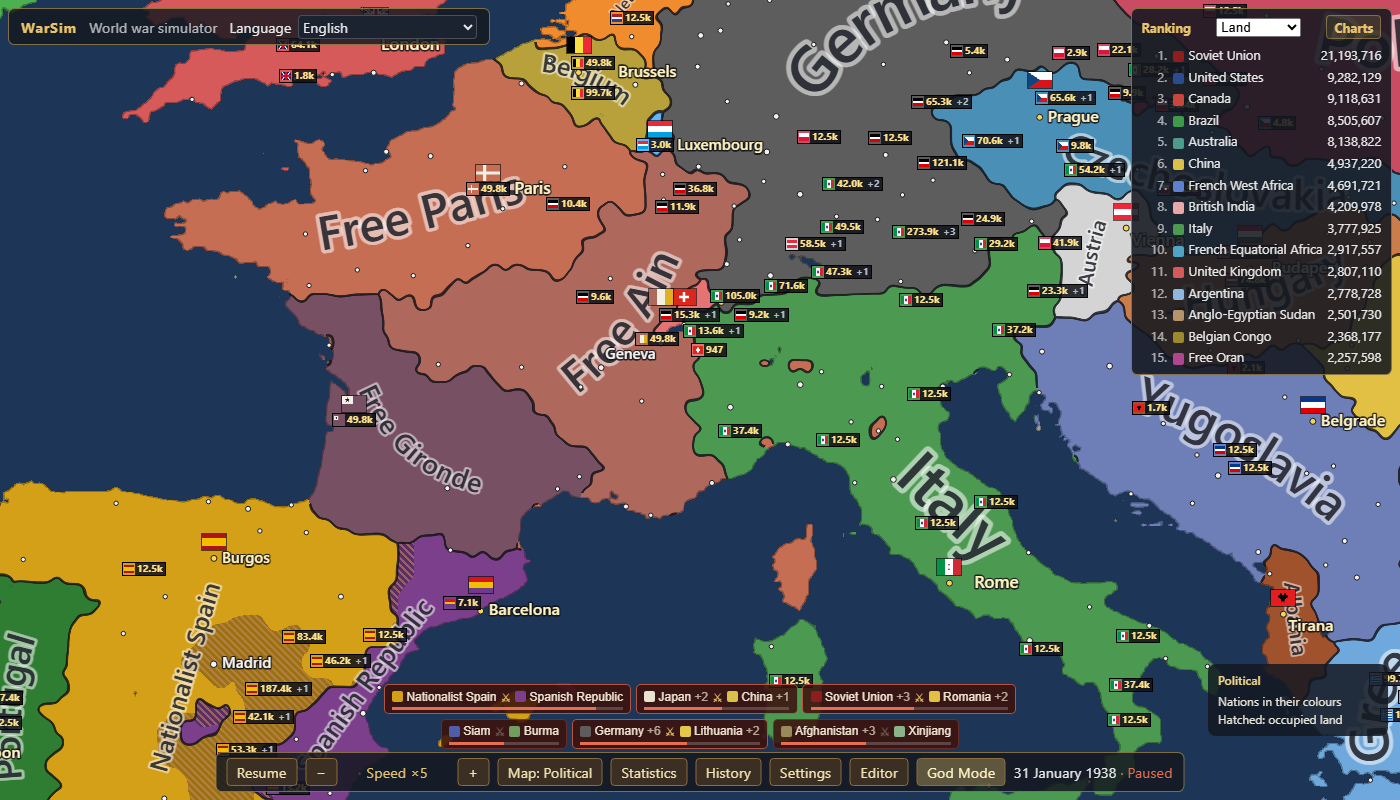
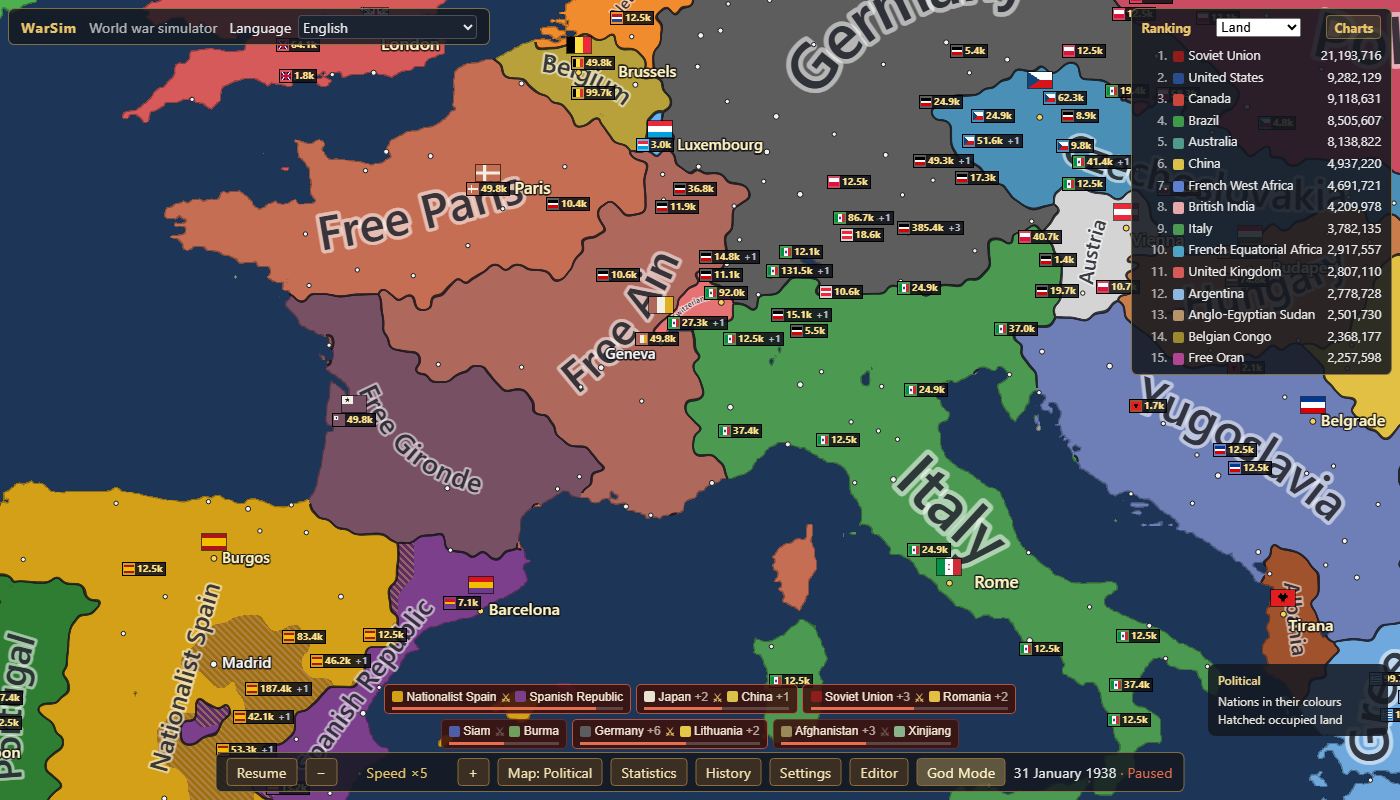
PLAN 2.17c2: a Kill gives a neighbour's province back to the neighbour (ADR-120)
A cell the dead nation owns in a province whose centre is another's went
to the heir in the last sweep of killNation: spots of "Free Ain" inside
Italy after a God brush stroke and a Kill. It now goes to the living
owner of the province's centre, with one LandCeded for each receiver.
The heir keeps the cells outside any province. A Kill with no heir is
not changed (ADR-113).

Tests, seen to fail first: killLand.test.ts (153 cells with a founded
nation); godUi1938.spec.ts, the fifth test, which now reads every 10 px
of the view (9 points).

Gate: green (typecheck, lint, unit 743, the ten-year tests, build, the
changed spec, parity). The pin did not move.

Claude-Session: https://claude.ai/code/session_01Rceg5hD1X4zLUbeCpn3Pjq

diff --git a/tests/unit/killLand.test.ts b/tests/unit/killLand.test.ts
@@ -3,7 +3,7 @@ import { EventKind } from '../../src/shared/events';
 import { NATIONS_1938, SIZE_1938 } from '../../src/sim/scenario1938';
 import { Sim } from '../../src/sim/sim';
 import type { SimInit } from '../../src/shared/protocol';
-import type { World } from '../../src/sim/world';
+import { navOf, type World } from '../../src/sim/world';
 import { deadLand } from '../helpers/deadLand';
 import { assets1938 } from '../helpers/earth';
 import { eventKinds, nationId, runEvents } from '../helpers/sim1938';
@@ -119,6 +119,58 @@ describe('a God Mode Kill leaves no land with the dead (PLAN 2.16Rg)', () => {
     expect(w.nations.cols.origin[heir], 'its origin').toBe(province[cell]);
     expect(w.nations.highWater - born, 'nations founded').toBeGreaterThan(1);
     expect([...new Set(slivers.map((i) => owner[i]!))], 'who took the cells outside any province').toEqual([heir]);
+  });
+
+  // PLAN 2.17c2 (ADR-120): the God brush gives a nation cells of a province whose centre stays
+  // its neighbour's. A Kill gave them to the heir: spots of "Free Ain" inside Italy's north.
+  it('part of a neighbour’s province: it goes back to the neighbour, not to a nation founded', () => {
+    const s = new Sim({ scenario: '1938', seed: 99, assets });
+    const w = s.world;
+    const [FRA, ITA] = [nationId('FRA'), nationId('ITA')];
+    const { owner, controller, province, w: width } = w.cells;
+    const centre = navOf(w).graph.centre;
+    const centreOf = (p: number): number => centre[p] ?? -1;
+    // The Italian province with the most cells beside France.
+    const beside = new Map<number, number>();
+    for (let c = 0; c < owner.length; c++) {
+      const p = province[c]!;
+      if (owner[c] !== ITA || p === 0 || owner[centreOf(p)] !== ITA) continue;
+      if ([c - width, c - 1, c + 1, c + width].some((q) => owner[q] === FRA)) beside.set(p, (beside.get(p) ?? 0) + 1);
+    }
+    const p = [...beside].sort((a, b) => b[1] - a[1] || a[0] - b[0])[0]?.[0] ?? 0;
+    expect(p, 'an Italian province beside France').toBeGreaterThan(0);
+    // France gets all of it but the centre and the cells round the centre.
+    const [mx, my] = [centreOf(p) % width, Math.floor(centreOf(p) / width)];
+    const painted: number[] = [];
+    for (let c = 0; c < owner.length; c++) {
+      if (province[c] !== p || owner[c] !== ITA) continue;
+      if (Math.abs((c % width) - mx) <= 1 && Math.abs(Math.floor(c / width) - my) <= 1) continue;
+      w.setOwner(c, FRA);
+      w.setController(c, FRA);
+      painted.push(c);
+    }
+    expect(painted.length, 'cells painted').toBeGreaterThan(0);
+    expect(owner[centreOf(p)], 'the centre').toBe(ITA);
+    const total = owner.reduce((a, o) => a + (o !== 0 ? 1 : 0), 0);
+    const old = new Set<number>();
+    w.nations.forEach((n) => {
+      if (w.nations.cols.living[n] === 1) old.add(n);
+    });
+    s.command({ kind: 'collapseNation', nation: FRA });
+    const ev = runEvents(s, 1);
+    expect(w.nations.cols.living[FRA], 'France lives').toBe(0);
+    const strays = new Map<number, number>();
+    for (let c = 0; c < owner.length; c++) {
+      const q = province[c]!;
+      if (q === 0 || owner[c] === 0 || old.has(owner[c]!) || owner[centreOf(q)] !== ITA) continue;
+      strays.set(owner[c]!, (strays.get(owner[c]!) ?? 0) + 1);
+    }
+    expect([...strays], 'founded nations with cells of a province whose centre is Italy’s').toEqual([]);
+    expect(painted.filter((c) => owner[c] !== ITA || controller[c] !== ITA).length, 'painted cells not Italy’s').toBe(0);
+    expect(eventKinds(ev, EventKind.LandCeded).filter(([to]) => to === ITA).length, 'LandCeded to Italy').toBeGreaterThanOrEqual(1);
+    expect(deadLand(w)).toEqual([]);
+    expect(owner.reduce((a, o) => a + (o !== 0 ? 1 : 0), 0), 'cells with an owner').toBe(total);
+    w.nations.forEach((n) => expect(w.nations.cols.cells[n], `count of nation ${n}`).toBe(owner.reduce((a, o) => a + (o === n ? 1 : 0), 0)));
   });
 
   it('1938 at tick 2000, with wars and occupations: every nation', () => {

diff --git a/tests/e2e/godUi1938.spec.ts b/tests/e2e/godUi1938.spec.ts
@@ -349,11 +349,18 @@ test('a nation painted over a neighbour, renamed and killed holds nothing and ha
   await page.getByTestId('god-tool-brush').click();
   await lookAt(page, 7, 45.2, SCALE);
   const way = Array.from({ length: 32 }, (_, i): [number, number] => [600 + (250 * i) / 31, 400]);
+  // Every 10 px of the view (the band and France west of it): the controller the map draws.
+  const grid: [number, number][] = [];
+  for (let y = 5; y < 800; y += 10) for (let x = 5; x < 1400; x += 10) grid.push([x, y]);
+  const held = await holders(grid);
+  const old = new Set((await inspect(page)).nations.filter((n) => n.living).map((n) => n.id));
   await page.mouse.move(600, 400);
   await page.mouse.down();
   await page.mouse.move(850, 400, { steps: 12 });
   await page.mouse.up();
   await expect.poll(async () => (await holders(way)).filter((n) => n !== FRA).length).toBe(0);
+  const painted = (await holders(grid)).filter((n, i) => n === FRA && held[i] !== FRA).length;
+  expect(painted, 'points of the view the stroke took from a neighbour').toBeGreaterThanOrEqual(10);
   await page.getByTestId('god-tool-brush').click();
 
   await page.getByTestId('god-rename-input').fill('Gaul');
@@ -365,9 +372,6 @@ test('a nation painted over a neighbour, renamed and killed holds nothing and ha
   await expect.poll(async () => nation(await inspect(page), FRA).living).toBe(false);
 
   // At once, and 30 days later: no cell, no name, no formation.
-  // Every 10 px of the view (the band and France west of it): the controller the map draws.
-  const grid: [number, number][] = [];
-  for (let y = 5; y < 800; y += 10) for (let x = 5; x < 1400; x += 10) grid.push([x, y]);
   const out = process.env['EVIDENCE'] ? path.resolve(import.meta.dirname, '../../docs/evidence/2.17') : info.outputPath();
   mkdirSync(out, { recursive: true });
   for (const days of [0, 30]) {
@@ -378,6 +382,11 @@ test('a nation painted over a neighbour, renamed and killed holds nothing and ha
     expect(s.formations.filter((f) => f.nation === FRA), `after ${days} days: formations`).toEqual([]);
     await expect.poll(async () => (await holders(grid)).filter((n) => n === FRA).length, `after ${days} days: cells controlled in the view`).toBe(0);
     await expect.poll(async () => (await names()).filter((l) => l.id === FRA || l.text === 'Gaul'), `after ${days} days: the name on the map`).toEqual([]);
+    // The neighbour's land under the stroke is the neighbour's again, and no piece of a nation the
+    // Kill founded is left in it (PLAN 2.17c2, ADR-120: four spots of "Free Ain" in Italy's north).
+    const now = await holders(grid);
+    if (days === 0) expect(now.filter((n, i) => held[i] !== FRA && n !== held[i]), 'at once: points of the view not their first holder’s').toEqual([]);
+    expect(now.filter((n, i) => held[i] !== FRA && n !== 0 && !old.has(n)), `after ${days} days: points outside France of a nation founded`).toEqual([]);
     await page.evaluate(() => window.__warsim!.view!.select(0));
     await page.waitForTimeout(800);
     await page.screenshot({ path: path.join(out, `killed-painted-${days}d.png`) });

diff --git a/src/sim/systems/revival.ts b/src/sim/systems/revival.ts
@@ -28,6 +28,7 @@
  *      province go to the heir: the nation founded on the old capital, else the largest
  *      founded, else whoever received the most land. A cell outside those provinces that a
  *      living nation occupies is that nation's (ADR-112's rule for every death, ADR-119).
+ *      A cell of a province whose centre a living nation owns goes to that nation (ADR-120).
  *   4. With no heir (the nation owns the centre of no province) its land goes to the living
  *      nation with the most cells beside it (`leaveToNeighbour`, ADR-113).
  * The Kill of the only living nation is refused if it has no province to found a nation in
@@ -315,14 +316,28 @@ function killNation(world: World, c: number, rest: number[], capitalProvince: nu
   }
   if (heir === 0) for (const [n, cells] of [...received].sort((a, b) => a[0] - b[0])) if (heir === 0 || cells > received.get(heir)!) heir = n;
   if (heir !== 0 && islands.length > 0) give(islands, heir);
-  // Cells outside any province (slivers) that c still holds go to the heir; then c is gone. One
-  // that another nation occupies is left for `eliminateNation`, which gives it to the occupier
-  // (ADR-112): given to the heir, it stayed occupied with no war behind it (ADR-119).
+  // What c still holds is outside the provinces shared out; then c is gone. A cell of a province
+  // whose centre a living nation owns goes to that nation (ADR-120): given to the heir, the cells
+  // a God brush had painted stood as spots of the heir inside the neighbour. The others (outside
+  // any province, or a province nobody living holds) go to the heir. One that another nation
+  // occupies is left for `eliminateNation`, which gives it to the occupier (ADR-112): given to
+  // the heir, it stayed occupied with no war behind it (ADR-119).
+  const returned = new Map<number, { cells: number; sx: number; sy: number }>();
+  const width = world.cells.w;
   for (let cell = 0; cell < owner.length; cell++) {
     if (heir === 0 || owner[cell] !== c || living(controller[cell]!)) continue;
-    world.setOwner(cell, heir);
-    if (controller[cell] === c) world.setController(cell, heir);
+    const holder = owner[g.centre[province[cell]!] ?? -1] ?? 0;
+    const to = province[cell] !== 0 && living(holder) ? holder : heir;
+    world.setOwner(cell, to);
+    if (controller[cell] === c) world.setController(cell, to);
+    if (to === heir) continue;
+    const got = returned.get(to) ?? { cells: 0, sx: 0, sy: 0 };
+    got.cells++;
+    got.sx += (cell % width) + 0.5;
+    got.sy += Math.floor(cell / width) + 0.5;
+    returned.set(to, got);
   }
+  for (const [to, got] of [...returned].sort((a, b) => a[0] - b[0])) world.out.emit(world.tick, EventKind.LandCeded, to, c, got.sx / got.cells, got.sy / got.cells);
   if (heir === 0) leaveToNeighbour(world, c);
   eliminateNation(world, c);
 }

diff --git a/DECISIONS.md b/DECISIONS.md
@@ -167,6 +167,39 @@ level directly; hillshade at higher zoom adds procedural detail (SPEC §8 T2/T3)
 runtime. Regenerating assets is idempotent (`npm run data -- --check` fails on drift), and
 `tests/unit/data-manifest.test.ts` verifies sha256, sizes, known places and pyramid consistency.
 
+### ADR-120 · 2026-10-05 · accepted — A Kill gives a cell of a neighbour's province to the neighbour, not to the heir (PLAN 2.17c2)
+
+- **Context:** `docs/evidence/2.17/killed-painted-0d.png` as PLAN 2.17c left it: France, painted
+  over the Alps with the God brush and killed, left four spots of "Free Ain" inside Italy's
+  north. A Kill shares out the provinces whose centre the dead nation owns. A cell it owns in
+  a province whose centre is another's is "outside the provinces shared out", and the last
+  sweep of `killNation` gave all of those to the heir. Such cells are not the brush's alone:
+  wherever a border runs through a province, one side owns cells without the centre.
+- **Decision:** in the last sweep of `killNation` a cell of a province whose centre a living
+  nation owns goes to that nation, as owner and controller. The heir takes the cells outside
+  any province and those of a province whose centre nobody living owns. A cell a living
+  nation occupies is still left to `eliminateNation` and becomes the occupier's (ADR-119).
+  Each nation that receives cells this way gets one `LandCeded` at their middle, in the order
+  of the ids (as `leaveLand` does); the heir's share stays without a line, as before.
+- **Why the centre's owner:** the centre is what says whose a province is everywhere else
+  (`held` in `collapseNation`, `forceRevolt`, `whyNotKill`), and it needs no search.
+- **Rejected:**
+  - *The nation with the most cells beside the piece* (`leaveToNeighbour`'s rule). It needs
+    the connected pieces of the cells left; the centre's owner gives the same answer for a
+    border strip and for a painted band.
+  - *No line of history.* The e2e of PLAN 2.15d holds that every nation that gains by a Kill
+    has a "Land handed over" row.
+- **Not changed:** a Kill without an heir (`leaveToNeighbour`, ADR-113): one receiver, one
+  line. The rule applies when there is an heir.
+- **Tests, seen to fail first:** `tests/unit/killLand.test.ts` (France given all of the
+  Italian province with the most cells beside it but the centre and the cells round it, then
+  killed: 153 cells of it were nation 104's, a nation founded). `tests/e2e/godUi1938.spec.ts`,
+  the fifth test: it now reads the holder of every 10 px of the view before the stroke; at
+  once after the Kill every point that was not France's has its first holder (9 points were
+  nation 104's), and after 30 days none is a founded nation's. The 32 points of the stroke's
+  middle did not find the spots: the test passed on the old code with them.
+- **The pin did not move** (7fc8e685): no Kill in a game without commands.
+
 ### ADR-119 · 2026-10-05 · accepted — What a God Mode Kill leaves: an occupied cell is the occupier's, and the last nation without a province is not killed (PLAN 2.17c)
 
 - **Context:** the critic's R2-B8: France, painted over the Alps with the God brush, renamed

diff --git a/PROGRESS.md b/PROGRESS.md
@@ -6412,3 +6412,27 @@ No rule changed and nothing on screen changed. One task came out of it.
 - **Not done:** no sweep (ADR-58); tick time not measured (the change is in a command's path).
 - **Logged for Phase 7** (BLOCKERS): the 45 cells occupied with no war before any Kill.
 - **The pin did not move** (7fc8e685).
+
+## 2026-10-05 — PLAN 2.17c2: a Kill gives a neighbour's province back to the neighbour (ADR-120)
+
+- **The defect:** a cell the dead nation owns in a province whose centre is another's is
+  outside the provinces a Kill shares out. The last sweep of `killNation` gave it to the heir:
+  four spots of "Free Ain" in Italy's north after a brush stroke and a Kill.
+- **The fix** (`killNation`, the last sweep): such a cell goes to the living owner of its
+  province's centre, with one `LandCeded` for each nation that receives. The heir keeps the
+  cells outside any province and those of a province with no living holder. A Kill with no
+  heir is not changed (ADR-113).
+- **Tests, seen to fail first:** `killLand.test.ts`, a new test (France given an Italian
+  province but for its centre, then killed: 153 cells were nation 104's).
+  `godUi1938.spec.ts`, the fifth test: every 10 px of the view, held before the stroke and
+  after the Kill (9 points were nation 104's).
+- **Gotcha:** the first e2e line read the 32 points of the stroke's middle and passed on the
+  old code: the spots lie off the middle. And "every point has its first holder" holds at
+  once only: 30 days on, 451 points of the view had gone to nation 1 (by the picture, Germany
+  at war). At 30 days the test asks that no point outside France is a founded nation's.
+- **Run by hand** (a part, ADR-87): `godUi1938`, `godMode1938`, `occupation1938`,
+  `editorDrag1938`, `player1938` with `--project chromium`: 22 green (52 s).
+- **Looked at:** `docs/evidence/2.17/killed-painted-0d.png` and `-30d.png`, taken anew: Italy's
+  north is one green, no spot of Free Ain; Free Paris, Free Ain, Free Gironde on France's land.
+- **Not done:** no sweep (ADR-58); tick time not measured (the change is in a command's path).
+- **Next:** PLAN 2.17d, Revive after a Kill.

diff --git a/PLAN.md b/PLAN.md
@@ -2620,7 +2620,7 @@ quick sweep as a smoke test.
       `paintControl` is put right.
     - Not reached by an e2e: the refusal (no world with a God tab has a last nation without
       a province).
-  - [ ] 2.17c2 **A Kill after a brush stroke leaves pieces of the heir inside the neighbour.**
+  - [x] 2.17c2 **A Kill after a brush stroke leaves pieces of the heir inside the neighbour.**
     Seen in `docs/evidence/2.17/killed-painted-0d.png`: four spots of "Free Ain" in Italy's
     north. The painted cells in a province whose centre the stroke did not reach are outside
     the provinces shared out and go to the heir (the last sweep of `killNation`). To be
@@ -2629,6 +2629,12 @@ quick sweep as a smoke test.
     AT: unit, failing first: France painted over part of an Italian province and killed: no
     founded nation owns a cell of a province whose centre Italy owns. The e2e of 2.17c gets
     the same line for the band.
+    - Done 2026-10-05 (ADR-120), as proposed: the last sweep of `killNation` gives such a cell
+      to the living owner of its province's centre, with one `LandCeded` for each receiver.
+      `killLand.test.ts` failed first (153 cells with nation 104). The e2e reads every 10 px
+      of the view, not the stroke's middle (which missed the spots), and failed first too
+      (9 points). The screenshots are taken anew: no spot in Italy.
+    - Not changed: a Kill with no heir (ADR-113).
   - [ ] 2.17d **Revive after a Kill.** `reviveOnCores` is false 30 days after a Kill, and the
     button says nothing: the cause to be read (`revival.ts`: a cooldown, cores gone with the
     fragments, no core land). What God Mode goes past, and a reason of its own for what it

diff --git a/SPEC.md b/SPEC.md
@@ -819,7 +819,8 @@ items take days and draw gold, industry and manpower. Upkeep runs monthly.
     nation of the toy world) has no heir: its land goes to the living nation with the most
     cells beside it, else to the nearest (ADR-113). No dead nation owns or controls a cell.
     A cell outside the provinces shared out that a living nation occupies becomes that
-    nation's, not the heir's (ADR-119). The Kill of the only living nation is carried out if
+    nation's, not the heir's (ADR-119). One in a province whose centre a living nation owns
+    goes to that nation (ADR-120); the heir takes those outside any province. The Kill of the only living nation is carried out if
     it owns a province's centre (its land founds what follows) and refused if it owns none.
   - *Death rule:* losing the capital while holding no core land is death; the capturer annexes
     the rest.
